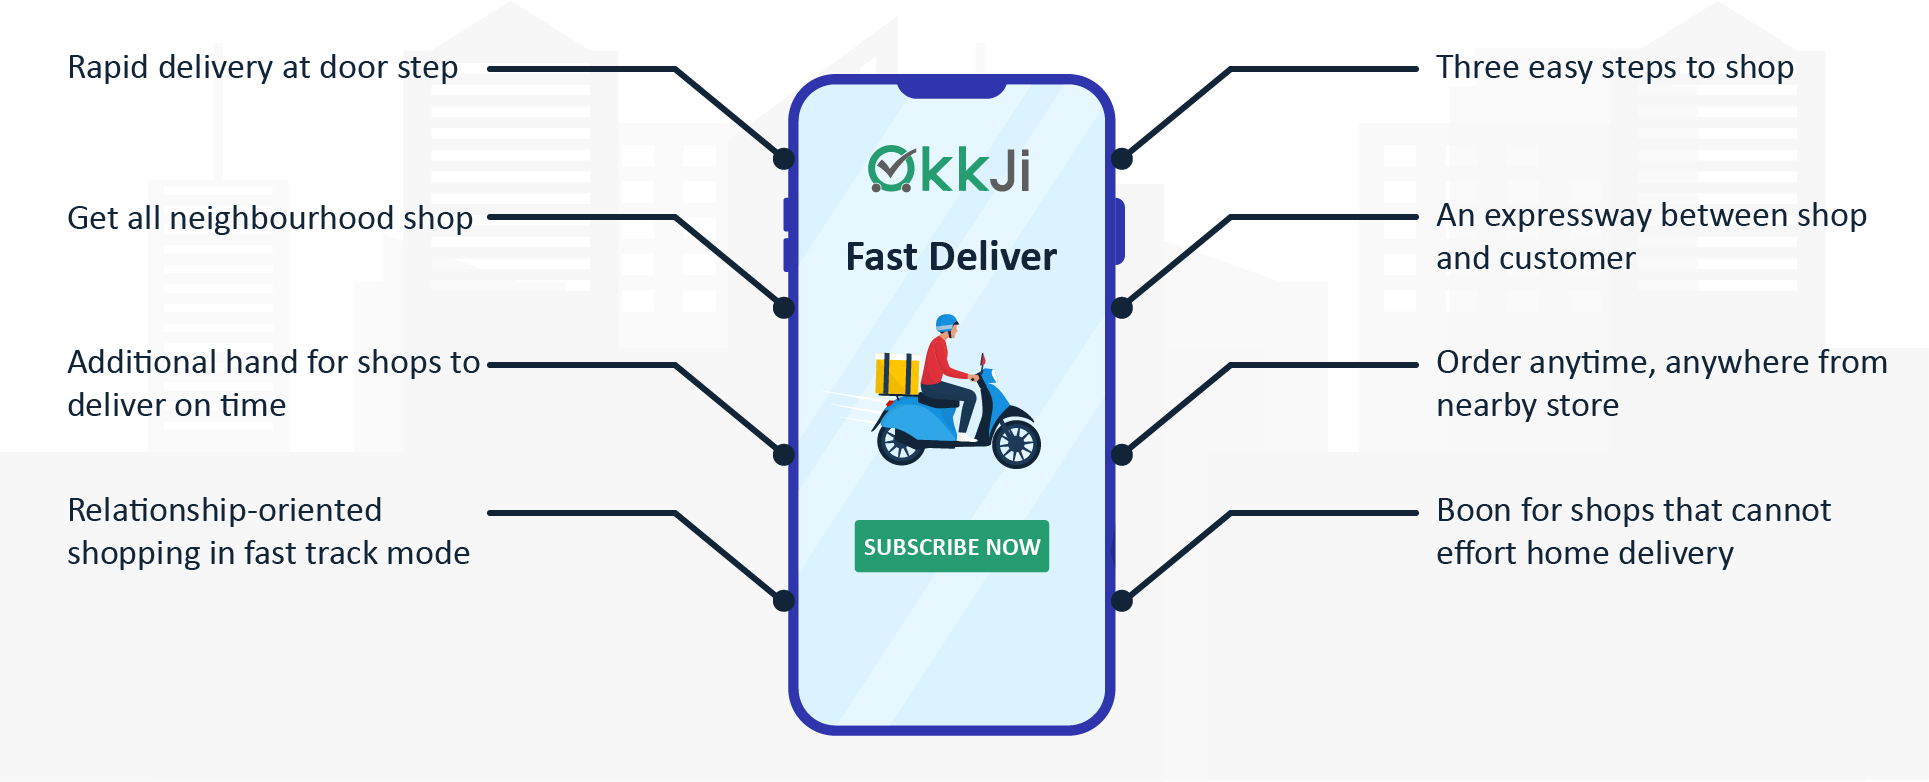
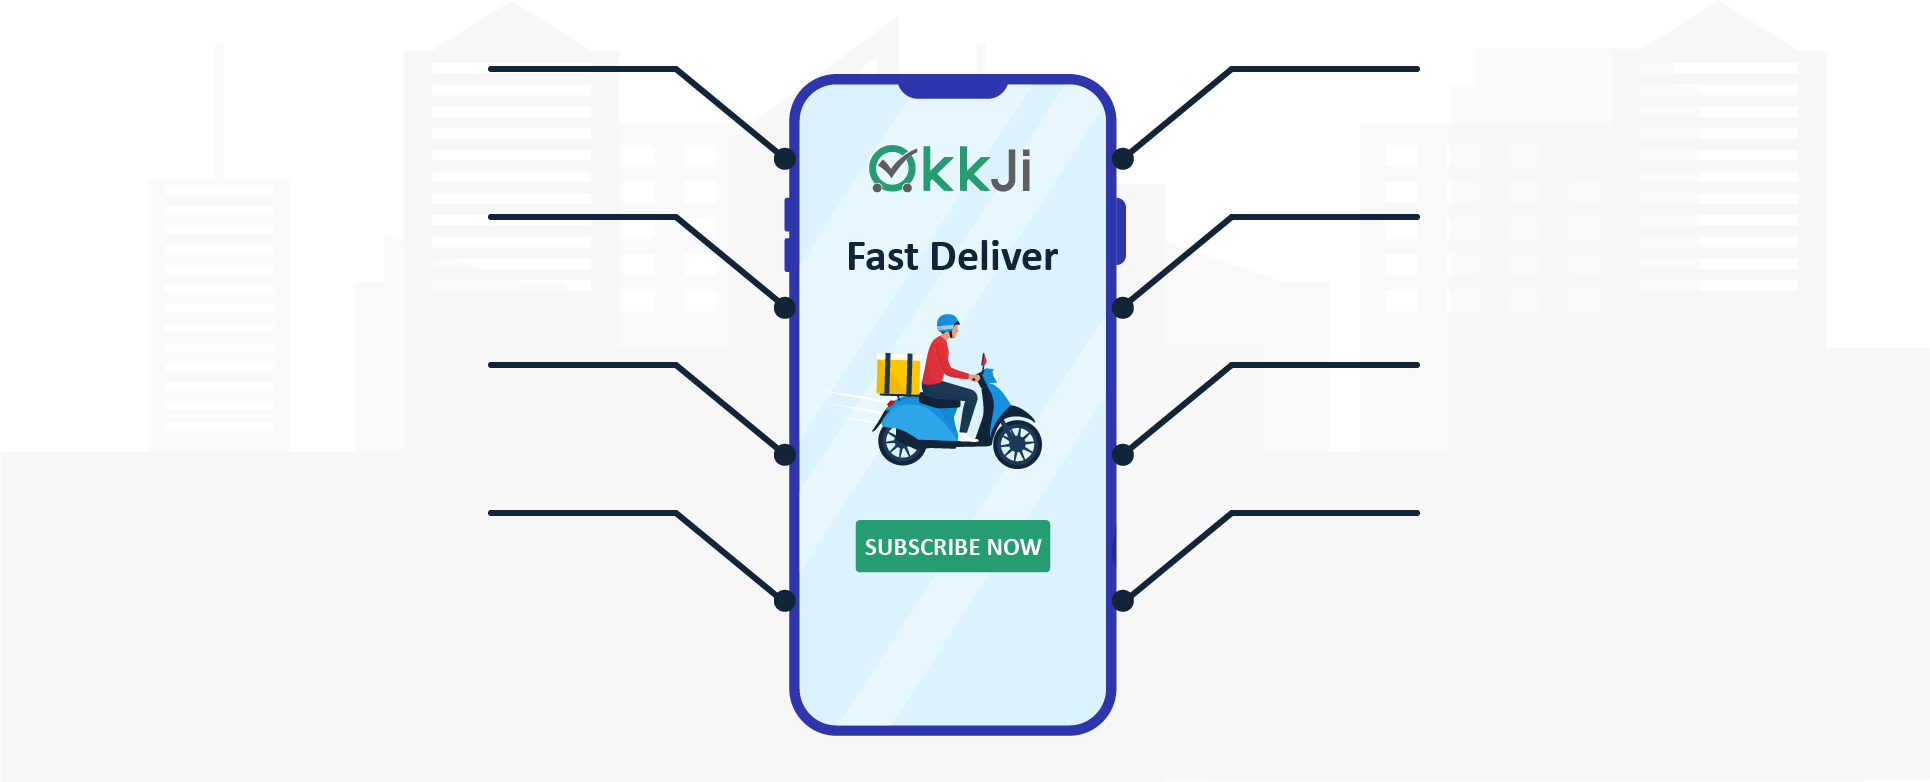
first commit

diff --git a/src/components/OkjiiFastBody.js b/src/components/OkjiiFastBody.js
@@ -1,6 +1,8 @@
 import React, { Component } from 'react';
 import img4 from '../img/okjiifast/img4.png';
-import img2 from '../img/okjiifast/img2.png';
+import img2a from '../img/okjiifast/img2a.png';
+import img2b from '../img/okjiifast/img2b.png';
+import img2c from '../img/okjiifast/img2c.png';
 import img1 from '../img/okjiifast/img1.png';
 import Testimonial from './Testimonial';
 import Trusted from './Trusted';
@@ -20,15 +22,51 @@ export default class OkjiiFastBody extends Component {
                </div>
         <section class="okjii-fasthow">
           <h1>How we work</h1>
+          <div>
+            <div className="row">
+              <div className="col-md-4">
           <figure>
-            <img src={img2} className="img-fluid okjii-fast-img-how py-4" alt="" />
+            <img src={img2a} className="img-fluid okjii-fast-img-how py-4" alt="" />
+            <figcaption class="text-center"><h4>Install App</h4></figcaption>
           </figure>
+          </div>
+          <div className="col-md-4">
+          <figure>
+            <img src={img2b} className="img-fluid okjii-fast-img-how py-4" alt="" />
+            <figcaption class="text-center"><h4>Order Online</h4></figcaption>
+          </figure>
+          </div>
+          <div className="col-md-4">
+          <figure>
+            <img src={img2c} className="img-fluid okjii-fast-img-how py-4" alt="" />
+            <figcaption class="text-center"><h4>Fast Deliver</h4></figcaption>
+          </figure>
+          </div>
+            </div>
+          </div>
+
         </section>
         <section class="okjii-fastfast">
           <h1>OkkJi Fast</h1>
           <figure>
             <img src={img1} className="img-fluid okjii-fast-img" alt="" />
           </figure>
+          <ol className="list-unstyled okjii-fast-left">
+            <li><p>Rapid delivery at door step</p></li>
+            <li><p>Get all neighbourhood shop</p></li>
+            <li><p>Additional hand for shops</p>
+            <p> to deliver on time</p></li>
+            <li><p>Relationship-oriented</p>
+            <p>shopping in fast track mode</p></li>
+          </ol>
+          <ol className="list-unstyled okjii-fast-right">
+            <li><p>Three easy steps to shop</p></li>
+            <li><p>An expressway between shop and customer</p></li>
+            <li><p>Order anytime, anywhere from nearby store</p></li>
+            <li><p>Boon for shops that cannot effort home delivery</p></li>
+
+          </ol>
+
         </section>
         <Testimonial />
         <Trusted />

diff --git a/src/App.css b/src/App.css
@@ -739,6 +739,48 @@ background-repeat: no-repeat !important;
   left: 70px;
 }
 
+
+.okjii-fastfast{
+  position: relative;
+  text-align: left;
+  color: #5E5E5E;
+}
+
+.okjii-fast-left {
+  position: absolute;
+  top: 65px;
+  left: 7%;
+}
+
+
+
+ol.list-unstyled.okjii-fast-left {
+  line-height: 5;
+  text-align: right;
+  font-size:1.3rem;
+  padding-top: 25px;
+  font-weight: 400;
+}
+
+.okjii-fast-right{
+  position: absolute;
+  top: 65px;
+  left: 75%;
+}
+ol.list-unstyled.okjii-fast-right {
+  line-height: 5;
+  text-align: left;
+  font-size:1.3rem;
+  padding-top: 25px;
+  font-weight: 400;
+}
+
+li p + p{
+  margin: 0 !important;
+  padding: 0 !important;
+}
+
+
 .okjii-fastcon h1{
   font-size:3rem;
 }
